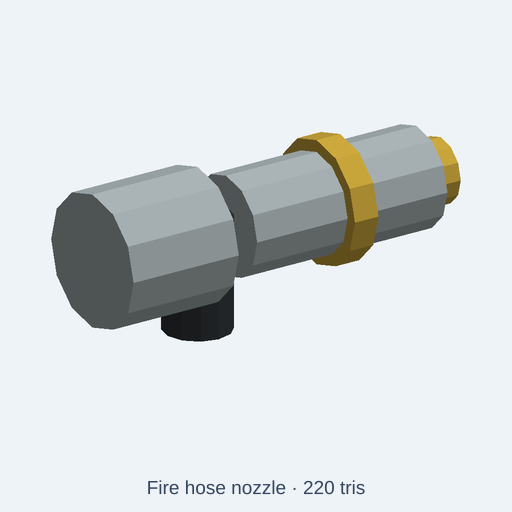
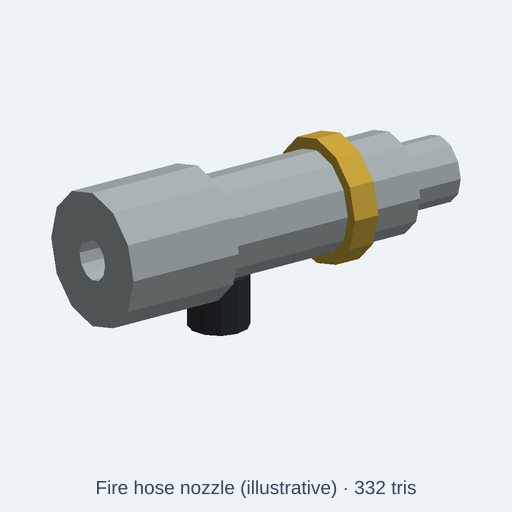
fix(catalog): restore continuous fire nozzle fluid passage

diff --git a/tests/integration/catalog/fireHoseNozzleFidelity.test.ts b/tests/integration/catalog/fireHoseNozzleFidelity.test.ts
@@ -1,0 +1,112 @@
+// SPDX-License-Identifier: MIT
+// Single-bored fire hose barrel plus independent selector and pistol grip.
+// A visually acceptable but solid, disconnected barrel must fail.
+import { beforeAll, describe, expect, it } from 'vitest';
+import { readFileSync } from 'node:fs';
+import { resolve } from 'node:path';
+import { NodeIO } from '@gltf-transform/core';
+import { initOcct } from '../../../src/kernel/backends/occt/occtBackend';
+import { buildCatalogAssetWithGlb } from '../../../src/agent/catalog/buildCatalog';
+import { runAndExport } from '../../../src/agent/script-runtime/export';
+import { glbTriangles,renderTrianglesPng } from '../../../scripts/lib/glbSoftwareRender';
+
+type V = [number, number, number];
+type Tri = [V, V, V];
+const root = resolve(import.meta.dirname, '../../..');
+const sourcePath = 'catalog/kits/fire-rescue/fire-hose-nozzle.kcad.ts';
+const sub = (a: V, b: V): V => [a[0]-b[0], a[1]-b[1], a[2]-b[2]];
+const dot = (a: V, b: V) => a[0]*b[0]+a[1]*b[1]+a[2]*b[2];
+const cross = (a: V, b: V): V => [a[1]*b[2]-a[2]*b[1], a[2]*b[0]-a[0]*b[2], a[0]*b[1]-a[1]*b[0]];
+function rayHits(tris: Tri[], start: V, direction: V): boolean {
+  return tris.some(tri => {
+    const edge1=sub(tri[1],tri[0]), edge2=sub(tri[2],tri[0]);
+    const p=cross(direction,edge2), determinant=dot(edge1,p);
+    if(Math.abs(determinant)<1e-9)return false;
+    const t=sub(start,tri[0]), u=dot(t,p)/determinant, q=cross(t,edge1);
+    const v=dot(direction,q)/determinant, distance=dot(edge2,q)/determinant;
+    return u>=-1e-7&&v>=-1e-7&&u+v<=1+1e-7&&distance>1e-6&&distance<200;
+  });
+}
+async function readMeshes(glb: Uint8Array, scale: number): Promise<Map<string,Tri[]>> {
+  // Low-poly positions are authored millimetres before scene-axis conversion.
+  const doc=await new NodeIO().readBinary(glb), parts=new Map<string,Tri[]>();
+  for(const node of doc.getRoot().listNodes()) {
+    const mesh=node.getMesh(); if(!mesh)continue;
+    const tris:Tri[]=[];
+    for(const primitive of mesh.listPrimitives()) {
+      const pos=primitive.getAttribute('POSITION')!, indices=primitive.getIndices();
+      const count=indices?indices.getCount():pos.getCount();
+      for(let i=0;i<count;i+=3)tris.push([0,1,2].map(k=>
+        pos.getElement(indices?indices.getScalar(i+k):i+k,[]).map(v=>v/scale) as V
+      ) as Tri);
+    }
+    parts.set(node.getName(),tris);
+  }
+  return parts;
+}
+function components(tris: Tri[]): number {
+  const parent=new Map<string,string>();
+  const find=(key:string):string=>{const p=parent.get(key)!;if(p===key)return key;const r=find(p);parent.set(key,r);return r;};
+  for(const tri of tris) {
+    const keys=tri.map(v=>v.map(x=>x.toFixed(4)).join(','));
+    for(const key of keys)if(!parent.has(key))parent.set(key,key);
+    for(const key of keys.slice(1))parent.set(find(key),find(keys[0]));
+  }
+  return new Set([...parent.keys()].map(find)).size;
+}
+// The low-poly GLB POSITION accessor is authored Z-up; node world transform converts for the renderer.
+function axialHit(tris:Tri[], y:number,z:number):boolean {
+ return rayHits(tris,[-155,y,z],[1,0,0]);
+}
+function radialHit(tris:Tri[],x:number,z:number):boolean {
+ return rayHits(tris,[x,0,z],[0,1,0]);
+}
+function verify(parts:Map<string,Tri[]>):void {
+ expect([...parts.keys()].sort()).toEqual(['annular-static-selector-sleeve','one-piece-continuous-flow-body','separate-pistol-grip']);
+ const body=parts.get('one-piece-continuous-flow-body')!,sleeve=parts.get('annular-static-selector-sleeve')!,grip=parts.get('separate-pistol-grip')!;
+ expect(components(body),'metal body is physically one connected flow path').toBe(1);
+ expect(components(sleeve),'selector sleeve is one hollow ring').toBe(1);
+ expect(components(grip),'grip is separately manufactured/overmoulded').toBe(1);
+ const vertex=body.flat();const min=[0,1,2].map(k=>Math.min(...vertex.map(v=>v[k]))),max=[0,1,2].map(k=>Math.max(...vertex.map(v=>v[k])));
+ expect(min[0]).toBeCloseTo(-111.6,1);expect(max[0]).toBeCloseTo(155,1);
+ expect(max[1]-min[1]).toBeCloseTo(90,1);
+ for(const [y,z] of [[0,66],[8,66],[0,74]])expect(axialHit(body,y,z),'open through-passage across every segment').toBe(false);
+ for(const y of [18,20])expect(axialHit(body,y,66),'connected annular wall exists outside Ø28 bore').toBe(true);
+ for(const x of [-100,-20,50,130])expect(radialHit(body,x,66),`wall exists at x=${x} around continuous axial bore`).toBe(true);
+ expect(axialHit(sleeve,0,66),'ring is genuinely hollow').toBe(false);
+ expect(radialHit(sleeve,70,66),'selector sleeve has annular wall outside barrel').toBe(true);
+ expect(axialHit(grip,0,10),'pistol grip exists below barrel').toBe(true);
+}
+beforeAll(async()=>{await initOcct();},30000);
+describe('fire-hose nozzle illustrative continuous fluid passage',()=>{
+ it('committed thumbnail is rendered from current CAD source with exact canonical caption',async()=>{
+  const {asset,glb}=await buildCatalogAssetWithGlb(root,sourcePath);
+  const render=await renderTrianglesPng(await glbTriangles(glb),{label:`${asset.title} · ${asset.stats.triangles} tris`});
+  const preview=readFileSync(resolve(root,'catalog/kits/fire-rescue/previews/fire-hose-nozzle.png'));
+  expect(Buffer.compare(render,preview)).toBe(0);
+ },30000);
+ for(const [size,scale] of [[1,1],[0.7,0.7],[1.3,1.3]] as const){
+  it(`scale ${size} has connected bore, two supported accessory bodies`,async()=>{
+   const source=readFileSync(resolve(root,sourcePath),'utf8');
+   const built=await buildCatalogAssetWithGlb(root,sourcePath);
+   const code=size===1?source:source.replace("param('scale', 1,",`param('scale', ${size},`);
+   const exp=size===1?{bytes:built.glb,diagnostics:[]}:await runAndExport({code,fileName:'fire-hose-nozzle.kcad.ts',scriptDir:resolve(root,'catalog/kits/fire-rescue'),format:'glb',options:{format:'glb',style:'lowpoly',lowpoly:{maxTriangles:built.asset.triangleBudget}}});
+   expect(exp.diagnostics.filter(d=>d.severity==='error')).toEqual([]);
+   verify(await readMeshes(exp.bytes,scale));
+   expect(built.asset.description).toMatch(/not pressure-rated or manufacturer-grade CAD/i);
+   expect(built.asset.description).toMatch(/open axial bore from hose coupling to fixed front tip/i);
+   expect(built.asset.description).toMatch(/no working selector valve/i);
+   expect(built.asset.stats.triangles).toBeLessThanOrEqual(built.asset.triangleBudget);
+   expect(built.asset.stats.minUpM).toBeCloseTo(0,6);
+  },60000);
+ }
+ it('original source is disconnected and contains solid blocked flow bodies',async()=>{
+  const original=readFileSync(resolve(root,'docs/quality/evidence/fire-hose-nozzle-20261115/original-source.kcad.ts'),'utf8');
+  const exp=await runAndExport({code:original,fileName:'original-fire-hose-nozzle.kcad.ts',scriptDir:resolve(root,'catalog/kits/fire-rescue'),format:'glb',options:{format:'glb',style:'lowpoly',lowpoly:{maxTriangles:2200}}});
+  expect(exp.diagnostics.filter(d=>d.severity==='error')).toEqual([]);
+  const parts=await readMeshes(exp.bytes,1);
+  expect([...parts.keys()].sort()).toEqual(['hose-tail','nozzle-body','pistol-grip','selector-collar','tip']);
+  expect(axialHit(parts.get('nozzle-body')!,0,64),'original nozzle-body blocks fluid axis').toBe(true);
+  expect(()=>verify(parts),'original must fail connected flow identity').toThrow();
+ },60000);
+});

diff --git a/catalog/kits/fire-rescue/fire-hose-nozzle.kcad.ts b/catalog/kits/fire-rescue/fire-hose-nozzle.kcad.ts
@@ -1,11 +1,11 @@
 // SPDX-License-Identifier: CC0-1.0
-// Straight fire hose nozzle with barrel, selector collar, pistol grip and adjustable front tip. Material controls: nozzle metal, selector finish, rubber grip; weathered and highVisibility presets.
+// Low-poly, non-pressure-rated fire hose nozzle prop: actual open fluid passage and three distinct material bodies.
 meta({
   name: "fire-hose-nozzle",
   license: 'CC0-1.0',
-  title: "Fire hose nozzle",
-  description: "Straight fire hose nozzle with barrel, selector collar, pistol grip and adjustable front tip. Material controls: nozzle metal, selector finish, rubber grip; weathered and highVisibility presets.",
-  tags: ['fire rescue', 'fire service', 'emergency scene', 'low poly', 'CC0'],
+  title: "Fire hose nozzle (illustrative)",
+  description: "Illustrative CC0 static fire hose nozzle with one connected drilled metal flow body, an open axial bore from hose coupling to fixed front tip, an annular selector sleeve and a separate pistol grip. Not pressure-rated or manufacturer-grade CAD: no working selector valve, spray pattern, threaded hose fit, metal grade, tolerances or flow certification. Scale and colors are visual controls.",
+  tags: ['fire rescue', 'fire service', 'emergency scene', 'low poly', 'CC0', 'scene prop'],
   kit: 'fire-rescue',
   category: 'prop',
   origin: 'base',
@@ -14,20 +14,30 @@ meta({
 });
 
 const scale = param('scale', 1, { label: 'Overall scale', min: 0.7, max: 1.3, step: 0.05 });
-const nozzleMetalColor = param('nozzleMetalColor', '#aeb8ba', { label: 'Nozzle metal' });
-const selectorFinishColor = param('selectorFinishColor', '#d2ad3e', { label: 'Selector finish' });
-const gripRubberColor = param('gripRubberColor', '#303539', { label: 'Rubber grip' });
+const nozzleMetalColor = param('nozzleMetalColor', '#aeb8ba', { label: 'Metal body appearance' });
+const selectorFinishColor = param('selectorFinishColor', '#d2ad3e', { label: 'Selector sleeve appearance' });
+const gripRubberColor = param('gripRubberColor', '#303539', { label: 'Grip appearance' });
 presets({
   weathered: { nozzleMetalColor: '#858f91', selectorFinishColor: '#9b7e37', gripRubberColor: '#41423f' },
   highVisibility: { nozzleMetalColor: '#c4c8b8', selectorFinishColor: '#eedb59', gripRubberColor: '#303539' },
 });
-const p = assembly("fire-hose-nozzle");
-const groundOffset = 10;
-const add = (name, shape, finish = nozzleMetalColor) => p.part(name, shape.translate(0, 0, groundOffset).scale(scale).color(finish));
-add("hose-tail", cylinder(80.6, 45, 10).rotateY(90).translate(-111.6, 0, 54), nozzleMetalColor);
-add("nozzle-body", cylinder(145.7, 34, 10).rotateY(90).translate(-9.3, 0, 54), nozzleMetalColor);
-add("tip", cylinder(55.8, 22, 10).rotateY(90).translate(99.2, 0, 54), selectorFinishColor);
-add("pistol-grip", cylinder(76, 23, 8).translate(-31, 0, -10), gripRubberColor);
-add("selector-collar", cylinder(18, 42, 10).rotateY(90).translate(60, 0, 54), selectorFinishColor);
+const p = assembly('fire-hose-nozzle');
+const axisX = (length: number, radius: number, x: number, segments = 12) =>
+  cylinder(length, radius, segments).rotateY(90).translate(x, 0, 54);
 
+// Physical identity: the inlet, smaller barrel and outlet are one metal flow body.
+// Overlap adjacent solids before subtracting one common bore through every segment.
+const outer = axisX(80.6, 45, -111.6)
+  .union(axisX(155.7, 34, -40), axisX(55.8, 22, 99.2));
+const passage = axisX(272, 14, -114, 12);
+const continuousBarrel = outer.subtract(passage);
+// Static separate sleeve around the barrel. Its clearance is illustrative only;
+// it does not implement rotation, variable flow or fog pattern mechanics.
+const selectorSleeve = axisX(18, 42, 60)
+  .subtract(axisX(20, 34.3, 59));
+// Separate rubber over-moulded pistol grip, intentionally seated into the barrel.
+const pistolGrip = cylinder(36, 20, 8).translate(-15, 0, -12);
+p.part('one-piece-continuous-flow-body', continuousBarrel.translate(0, 0, 12).scale(scale).color(nozzleMetalColor));
+p.part('annular-static-selector-sleeve', selectorSleeve.translate(0, 0, 12).scale(scale).color(selectorFinishColor));
+p.part('separate-pistol-grip', pistolGrip.translate(0, 0, 12).scale(scale).color(gripRubberColor));
 return p.model();

diff --git a/docs/quality/evidence/fire-hose-nozzle-20261115/original-source.kcad.ts b/docs/quality/evidence/fire-hose-nozzle-20261115/original-source.kcad.ts
@@ -1,0 +1,33 @@
+// SPDX-License-Identifier: CC0-1.0
+// Straight fire hose nozzle with barrel, selector collar, pistol grip and adjustable front tip. Material controls: nozzle metal, selector finish, rubber grip; weathered and highVisibility presets.
+meta({
+  name: "fire-hose-nozzle",
+  license: 'CC0-1.0',
+  title: "Fire hose nozzle",
+  description: "Straight fire hose nozzle with barrel, selector collar, pistol grip and adjustable front tip. Material controls: nozzle metal, selector finish, rubber grip; weathered and highVisibility presets.",
+  tags: ['fire rescue', 'fire service', 'emergency scene', 'low poly', 'CC0'],
+  kit: 'fire-rescue',
+  category: 'prop',
+  origin: 'base',
+  compat: ['fire-rescue', 'fireground', 'emergency-scene', 'training-scene'],
+  triangleBudget: 2200
+});
+
+const scale = param('scale', 1, { label: 'Overall scale', min: 0.7, max: 1.3, step: 0.05 });
+const nozzleMetalColor = param('nozzleMetalColor', '#aeb8ba', { label: 'Nozzle metal' });
+const selectorFinishColor = param('selectorFinishColor', '#d2ad3e', { label: 'Selector finish' });
+const gripRubberColor = param('gripRubberColor', '#303539', { label: 'Rubber grip' });
+presets({
+  weathered: { nozzleMetalColor: '#858f91', selectorFinishColor: '#9b7e37', gripRubberColor: '#41423f' },
+  highVisibility: { nozzleMetalColor: '#c4c8b8', selectorFinishColor: '#eedb59', gripRubberColor: '#303539' },
+});
+const p = assembly("fire-hose-nozzle");
+const groundOffset = 10;
+const add = (name, shape, finish = nozzleMetalColor) => p.part(name, shape.translate(0, 0, groundOffset).scale(scale).color(finish));
+add("hose-tail", cylinder(80.6, 45, 10).rotateY(90).translate(-111.6, 0, 54), nozzleMetalColor);
+add("nozzle-body", cylinder(145.7, 34, 10).rotateY(90).translate(-9.3, 0, 54), nozzleMetalColor);
+add("tip", cylinder(55.8, 22, 10).rotateY(90).translate(99.2, 0, 54), selectorFinishColor);
+add("pistol-grip", cylinder(76, 23, 8).translate(-31, 0, -10), gripRubberColor);
+add("selector-collar", cylinder(18, 42, 10).rotateY(90).translate(60, 0, 54), selectorFinishColor);
+
+return p.model();

diff --git a/docs/quality/fire-hose-nozzle-2026-11-15.md b/docs/quality/fire-hose-nozzle-2026-11-15.md
@@ -1,0 +1,39 @@
+# Fire hose nozzle: continuous flow body instead of disconnected solid cylinders
+
+15 November 2026. This change corrects a recognizable geometric defect in an **illustrative CC0 fire-rescue scene prop**. It is **not** a pressure-rated fire nozzle, an adjustable physical spray-pattern device, a validated hose-thread interface or manufacturer-grade CAD. No external dimensions, metal grades, leakage limits, hose fit or flow certifications are claimed as tested.
+
+## Before
+
+The public `fire-rescue/fire-hose-nozzle` showed a barrel, tip, collar, hose tail and pistol grip as **five separate source solids**. Only the tail had a hollow channel; the main `nozzle-body` and `tip` were solid cylinders. Axial inlet-to-outlet fluid flow was blocked despite the title and nominal nozzle silhouette. In addition, the hose-tail and main cylinder had an uncovered axial gap. Native rendering and the published PNG nevertheless passed basic transport/triangle checks.
+
+## After
+
+The three coaxial metal tube segments overlap and are **fused to one connected metal flow body**. A common axial **Ø28 mm** fluid bore is then subtracted across the entire **266.6 mm nominal length**, including the coupling tail and fixed front tip. The selector sleeve is a separate annular body with an actual central clearance; its static position makes no claim to a working valve or spray-pattern mechanism. The pistol-style grip remains a separate visible material body seated against the barrel. The resulting model has **three named native bodies** and 332 triangles within the unchanged 2,200 triangle budget; the overall 266.6×111×90 mm envelope remains illustrative.
+
+Original visual: one apparently closed entrance and segmented cylinders. Corrected visual: visible outlet bore with connected body and separate sleeve/grip. The user-facing title now says *Fire hose nozzle (illustrative)*; color knobs are expressly appearances, not certified materials.
+
+![Native before and after](evidence/fire-hose-nozzle-20261115/before-after.png)
+
+[Six-second native before/after comparison](evidence/fire-hose-nozzle-20261115/native-comparison.mp4). Both frames are actual software renderings, not WebGL acceptance, working spray valves or hardware pressure tests. The original [source fixture](evidence/fire-hose-nozzle-20261115/original-source.kcad.ts) is preserved for a negative control.
+
+## Tested geometry acceptance
+
+`tests/integration/catalog/fireHoseNozzleFidelity.test.ts` verifies standard, 0.7× and 1.3× sizes. The inspected GLB must have one connected metal body, a separate annular selector and a separate grip. Axial ray checks from the coupling side verify the entire bore is open, with positive wall controls and independent radial cross-section checks at hose inlet, middle barrel and tip. The original five-body solid source still compiles but fails the geometry contract; the test explicitly checks that the original main nozzle cylinder blocks the bore. The final test also rerenders default GLB and compares the resulting canonical 512×512 PNG byte-for-byte with the committed preview.
+
+Local focused results: **9/9** pass (three size variants, original negative, preview byte parity, four catalog-module cases). Targeted ESLint passes and the 2,402-entry index/source hash consistency check changes only this source record. Native execution is not manufacturer certification.
+
+Reproduce (Node 24.22.2, reused dependencies, one Vitest worker, 2 GiB heap):
+
+```sh
+NODE_OPTIONS=--max-old-space-size=2048 node node_modules/vitest/vitest.mjs run \
+  tests/integration/catalog/fireHoseNozzleFidelity.test.ts tests/integration/catalog/assetModule.test.ts \
+  --maxWorkers=1 --no-file-parallelism
+node node_modules/eslint/bin/eslint.js \
+  tests/integration/catalog/fireHoseNozzleFidelity.test.ts catalog/kits/fire-rescue/fire-hose-nozzle.kcad.ts
+```
+
+Require exact-head repository CI and protected review before merge. Production acceptance requires actual live source and both PNG routes to match the reviewed merged commit, a live part page/browser check, cache purge, and rerunning these geometric assertions against the **downloaded production source**. A successful local render or merged PR is not a shipped fix.
+
+## External feature comparison (15 November 2026)
+
+Commercial selectable-flow nozzle descriptions and cutaway drawings typically distinguish inlet connection, open waterway, shutoff valve, selectable spray head and optional pistol grip. For example, the [Elkhart Brass Select-O-Flow description](https://elkhartsales.com/select-o-flow-fire-hose-nozzle.php) identifies selectable flow and pistol-grip versions, while the [Rylstatic Viper nozzle cutaway](https://pacificandfire.com/en/product/fire-nozzles/nozzle-viper-rylstatic-model-bd-1560-bd-3012-bd-7515-bd-9520) identifies internal valve/seats. The public CC0 prop has a hole and exterior grip/collar, but intentionally **does not model** those internal working elements. Its dimensions and performance are not derived from any particular nozzle specification.
